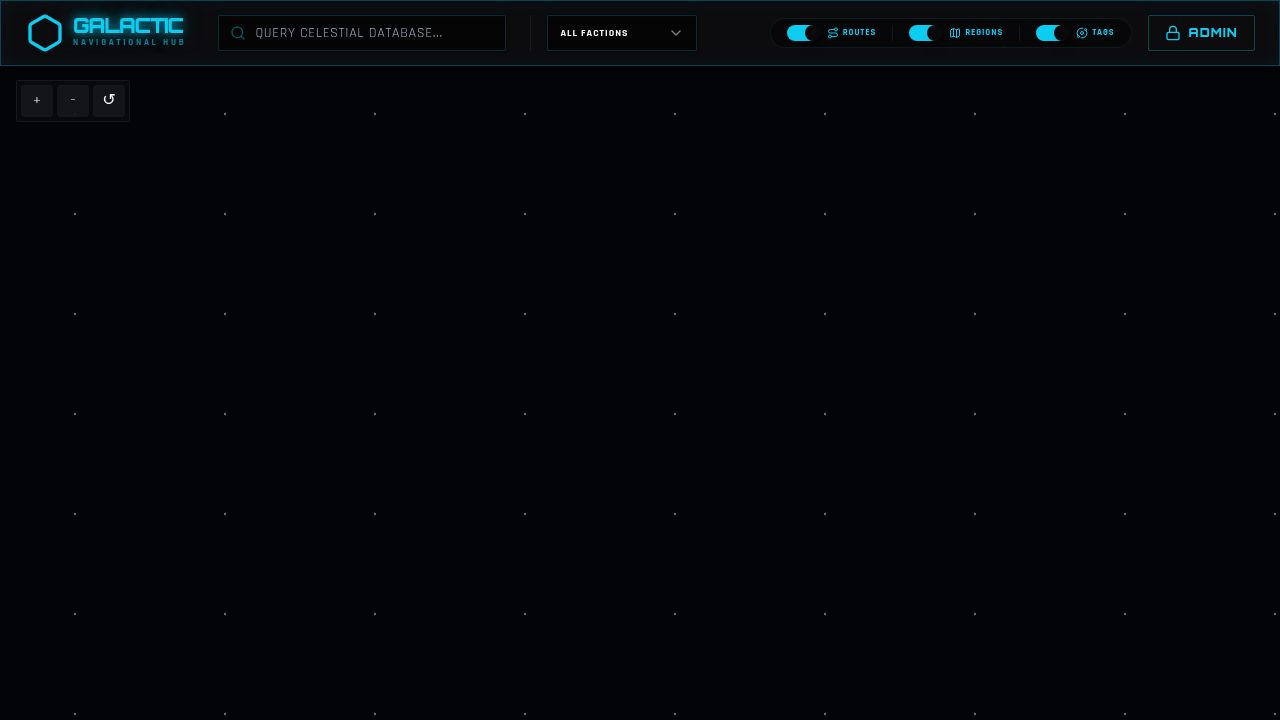
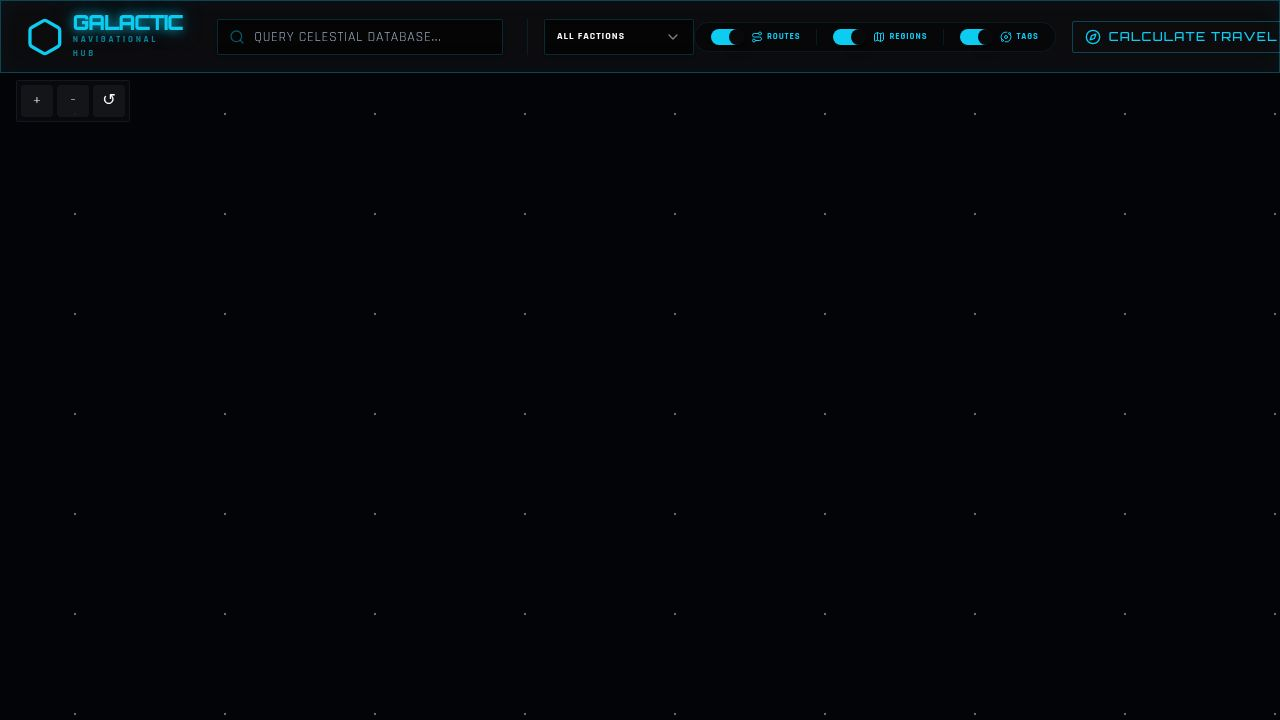
Add a tool to calculate hyperspace travel time between planets
Integrates Dijkstra's algorithm to calculate shortest paths through hyperspace lanes, factoring in hyperdrive class modifiers and map scale for accurate travel time estimations.

Replit-Commit-Author: Agent
Replit-Commit-Session-Id: b0b4c11e-aa52-4ab0-b2b0-86a2e4e7cfd7
Replit-Commit-Checkpoint-Type: full_checkpoint
Replit-Commit-Event-Id: 819ff8dc-e1bf-444f-9ed9-79115c00c2a5
Replit-Commit-Screenshot-Url: https://storage.googleapis.com/screenshot-production-us-central1/cce723cc-92a2-4429-893e-b26478f7a821/b0b4c11e-aa52-4ab0-b2b0-86a2e4e7cfd7/3pcXeIO
Replit-Helium-Checkpoint-Created: true

Changed region(s): [[0.0, 0.0, 0.375, 0.0917], [0.5312, 0.0306, 1.0, 0.0917], [0.4375, 0.0306, 0.5312, 0.0917]]

diff --git a/client/src/components/TopBar.tsx b/client/src/components/TopBar.tsx
@@ -1,12 +1,12 @@
 import { cn } from "@/lib/utils";
 import { useMap, Planet, Sector, Fleet } from '@/lib/data';
-import { Search, Map as MapIcon, Route, Orbit, Edit3, Settings, LogOut, Hexagon, Plus, Lock, Ship } from 'lucide-react';
+import { Search, Map as MapIcon, Route, Orbit, Edit3, Settings, LogOut, Hexagon, Plus, Lock, Ship, Compass } from 'lucide-react';
 import { Input } from './ui/input';
 import { Switch } from './ui/switch';
 import { Label } from './ui/label';
 import { Button } from './ui/button';
 import { Select, SelectContent, SelectItem, SelectTrigger, SelectValue } from './ui/select';
-import { useState } from 'react';
+import { useState, useMemo } from 'react';
 import { Dialog, DialogContent, DialogHeader, DialogTitle, DialogDescription, DialogFooter } from './ui/dialog';
 
 export const TopBar = () => {
@@ -17,12 +17,88 @@ export const TopBar = () => {
     editMode, setEditMode,
     searchQuery, setSearchQuery,
     filters, setFilters,
+    planets, lanes,
     addPlanet, setSelectedPlanet, addSector, addFleet
   } = useMap();
 
   const [isPasswordDialogOpen, setIsPasswordDialogOpen] = useState(false);
+  const [isTravelTimeOpen, setIsTravelTimeOpen] = useState(false);
+  const [travelCalc, setTravelCalc] = useState({
+    start: '',
+    end: '',
+    hyperdrive: '1.0'
+  });
   const [password, setPassword] = useState('');
   const [error, setError] = useState('');
+
+  // Dijkstra's algorithm for shortest path between planets along lanes
+  const travelResult = useMemo(() => {
+    if (!travelCalc.start || !travelCalc.end || travelCalc.start === travelCalc.end) return null;
+    
+    const adj: Record<string, {node: string, dist: number}[]> = {};
+    planets.forEach(p => adj[p.id] = []);
+    lanes.forEach(l => {
+      const p1 = planets.find(p => p.id === l.planetIds[0]);
+      const p2 = planets.find(p => p.id === l.planetIds[1]);
+      if (p1 && p2) {
+        const dx = p1.x - p2.x;
+        const dy = p1.y - p2.y;
+        const dist = Math.sqrt(dx*dx + dy*dy);
+        adj[p1.id].push({node: p2.id, dist});
+        adj[p2.id].push({node: p1.id, dist});
+      }
+    });
+
+    const distances: Record<string, number> = {};
+    const prev: Record<string, string | null> = {};
+    const pq = new Set(planets.map(p => p.id));
+    
+    planets.forEach(p => {
+      distances[p.id] = Infinity;
+      prev[p.id] = null;
+    });
+    distances[travelCalc.start] = 0;
+
+    while (pq.size > 0) {
+      let u = Array.from(pq).reduce((min, node) => 
+        distances[node] < distances[min] ? node : min, Array.from(pq)[0]);
+      
+      if (distances[u] === Infinity || u === travelCalc.end) break;
+      pq.delete(u);
+
+      adj[u]?.forEach(edge => {
+        const alt = distances[u] + edge.dist;
+        if (alt < distances[edge.node]) {
+          distances[edge.node] = alt;
+          prev[edge.node] = u;
+        }
+      });
+    }
+
+    if (distances[travelCalc.end] === Infinity) return { error: "No hyperspace route found between these systems." };
+
+    // 5000x5000 map = 120,000 light years
+    const mapToLy = 120000 / 5000;
+    const totalLy = distances[travelCalc.end] * mapToLy;
+    const baseSpeed = 111; // LY per hour for Class 1
+    const hdClass = parseFloat(travelCalc.hyperdrive) || 1.0;
+    
+    // Time = Distance / (Speed / Class)
+    // Class 1 = 111 LY/h
+    // Class 0.5 = 222 LY/h (twice as fast)
+    // Class 2 = 55.5 LY/h (twice as slow)
+    const hours = totalLy / (baseSpeed / hdClass);
+    
+    const days = Math.floor(hours / 24);
+    const remainingHours = Math.round(hours % 24);
+
+    return { 
+      distance: Math.round(totalLy), 
+      days, 
+      hours: remainingHours,
+      totalHours: Math.round(hours)
+    };
+  }, [travelCalc, planets, lanes]);
 
   const handleAdminToggle = () => {
     if (editMode) {
@@ -137,6 +213,15 @@ export const TopBar = () => {
           </div>
 
           <Button 
+            variant="outline"
+            size="sm"
+            onClick={() => setIsTravelTimeOpen(true)}
+            className="border-primary/30 text-primary hover:bg-primary/10 gap-2 font-display tracking-widest"
+          >
+            <Compass className="w-4 h-4" /> CALCULATE TRAVEL
+          </Button>
+
+          <Button 
             variant={editMode ? "default" : "outline"}
             size="sm"
             onClick={handleAdminToggle}
@@ -150,6 +235,80 @@ export const TopBar = () => {
           </Button>
         </div>
       </div>
+
+      <Dialog open={isTravelTimeOpen} onOpenChange={setIsTravelTimeOpen}>
+        <DialogContent className="glass-panel-primary border-primary/30 sm:max-w-md bg-[#05080f]/95 backdrop-blur-3xl">
+          <DialogHeader className="items-center text-center">
+            <Compass className="w-12 h-12 text-primary mb-2 animate-spin-slow" />
+            <DialogTitle className="text-primary font-display font-black text-xl tracking-[0.2em]">TRAVEL CALCULATOR</DialogTitle>
+            <DialogDescription className="text-primary/60 text-[10px] uppercase font-bold tracking-[0.2em]">Astrogation Computer Interface</DialogDescription>
+          </DialogHeader>
+          <div className="py-6 space-y-4">
+            <div className="grid grid-cols-2 gap-4">
+              <div className="space-y-1">
+                <Label className="text-[10px] uppercase tracking-widest text-primary/70">Origin Point</Label>
+                <Select value={travelCalc.start} onValueChange={(v) => setTravelCalc(prev => ({...prev, start: v}))}>
+                  <SelectTrigger className="bg-black/60 border-primary/20 text-[10px] uppercase"><SelectValue placeholder="Select Origin" /></SelectTrigger>
+                  <SelectContent>
+                    {planets.map(p => <SelectItem key={`start-${p.id}`} value={p.id}>{p.name}</SelectItem>)}
+                  </SelectContent>
+                </Select>
+              </div>
+              <div className="space-y-1">
+                <Label className="text-[10px] uppercase tracking-widest text-primary/70">Destination</Label>
+                <Select value={travelCalc.end} onValueChange={(v) => setTravelCalc(prev => ({...prev, end: v}))}>
+                  <SelectTrigger className="bg-black/60 border-primary/20 text-[10px] uppercase"><SelectValue placeholder="Select Dest" /></SelectTrigger>
+                  <SelectContent>
+                    {planets.map(p => <SelectItem key={`end-${p.id}`} value={p.id}>{p.name}</SelectItem>)}
+                  </SelectContent>
+                </Select>
+              </div>
+            </div>
+            <div className="space-y-1">
+              <Label className="text-[10px] uppercase tracking-widest text-primary/70">Hyperdrive Class</Label>
+              <div className="flex gap-2">
+                <Input 
+                  type="number" step="0.1" min="0.1"
+                  value={travelCalc.hyperdrive}
+                  onChange={(e) => setTravelCalc(prev => ({...prev, hyperdrive: e.target.value}))}
+                  className="bg-black/60 border-primary/30 text-center font-mono"
+                />
+                <div className="flex-1 flex items-center px-4 bg-primary/5 rounded border border-primary/10 text-[10px] text-primary/60 uppercase italic">
+                  Lower is faster (0.5 is 2x faster than 1.0)
+                </div>
+              </div>
+            </div>
+
+            {travelResult && (
+              <div className="mt-4 p-4 bg-primary/10 border border-primary/30 rounded-lg animate-in fade-in zoom-in-95 duration-300">
+                {'error' in travelResult ? (
+                  <div className="text-destructive text-center text-xs font-bold uppercase tracking-wider">{travelResult.error}</div>
+                ) : (
+                  <div className="space-y-3">
+                    <div className="flex justify-between items-center border-b border-primary/20 pb-2">
+                      <span className="text-[10px] uppercase text-primary/60 font-bold">Total Distance</span>
+                      <span className="text-primary font-display font-bold">{travelResult.distance.toLocaleString()} LY</span>
+                    </div>
+                    <div className="flex justify-between items-center">
+                      <span className="text-[10px] uppercase text-primary/60 font-bold">Estimated Time</span>
+                      <div className="text-right">
+                        <div className="text-primary font-display font-black text-2xl leading-none">
+                          {travelResult.days > 0 && <span>{travelResult.days}D </span>}
+                          {travelResult.hours}H
+                        </div>
+                        <div className="text-[9px] text-primary/40 uppercase mt-1">Total {travelResult.totalHours} Hours</div>
+                      </div>
+                    </div>
+                  </div>
+                )}
+              </div>
+            )}
+          </div>
+          <DialogFooter>
+            <Button onClick={() => setIsTravelTimeOpen(false)} className="bg-primary text-background font-display font-black tracking-[0.2em] w-full h-12">CLOSE NAV-COMPUTER</Button>
+          </DialogFooter>
+        </DialogContent>
+      </Dialog>
 
       <Dialog open={isPasswordDialogOpen} onOpenChange={setIsPasswordDialogOpen}>
         <DialogContent className="glass-panel-primary border-primary/30 sm:max-w-md bg-[#05080f]/95 backdrop-blur-3xl">
